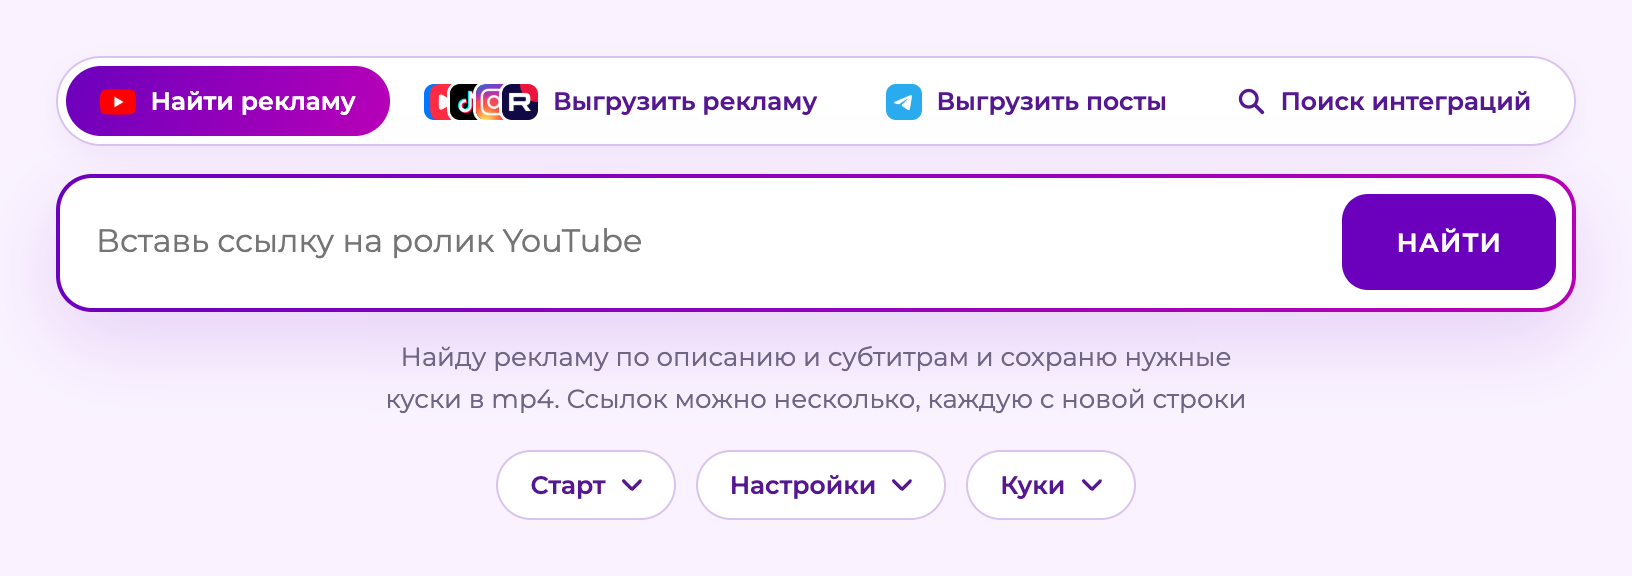
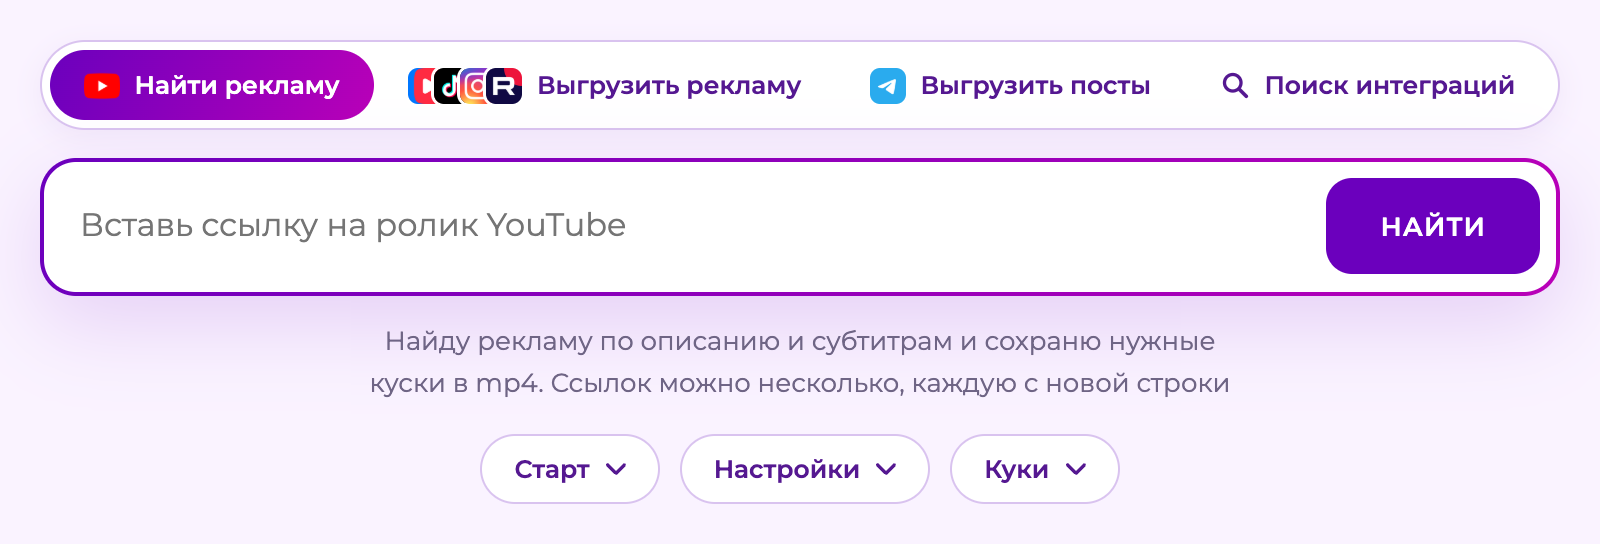
Витрина: скриншот точка в точку для Retina, версия 3x для телефонов

diff --git a/docs/index.html b/docs/index.html
@@ -25,7 +25,7 @@
   .btn{display:inline-block;padding:13px 26px;border-radius:30px;font-weight:700;font-size:14px;text-decoration:none;border:1.5px solid var(--violet);color:var(--violet)}
   .btn.main{background:linear-gradient(115deg,var(--violet),var(--pink));border:0;padding:14.5px 27.5px;color:#fff;text-transform:uppercase;letter-spacing:.04em}
   .shot{margin:40px auto 0;max-width:800px}
-  .shot img{width:100%;height:auto;border-radius:18px;border:1px solid var(--line);display:block}
+  .shot img{width:100%;height:auto;border-radius:18px;box-shadow:0 0 0 1px var(--line);display:block}
   h2{font-size:26px;margin:56px 0 20px;font-weight:800}
   .cards{display:grid;grid-template-columns:repeat(auto-fit,minmax(210px,1fr));gap:16px}
   .card{background:#fff;border:1px solid var(--line);border-radius:16px;padding:20px}
@@ -52,7 +52,7 @@
     <div class="btns">
       <a class="btn main" href="https://github.com/Dmitry-Wibly/wib-uploads/archive/refs/heads/main.zip">Скачать</a>
     </div>
-    <div class="shot"><img src="screenshot.png" alt="Главный экран wib uploads с четырьмя режимами"></div>
+    <div class="shot"><img src="screenshot.png" srcset="screenshot.png 2x, screenshot@3x.png 3x" width="800" height="272" alt="Главный экран wibuploads с четырьмя режимами"></div>
   </section>
 
   <h2>Четыре режима</h2>
